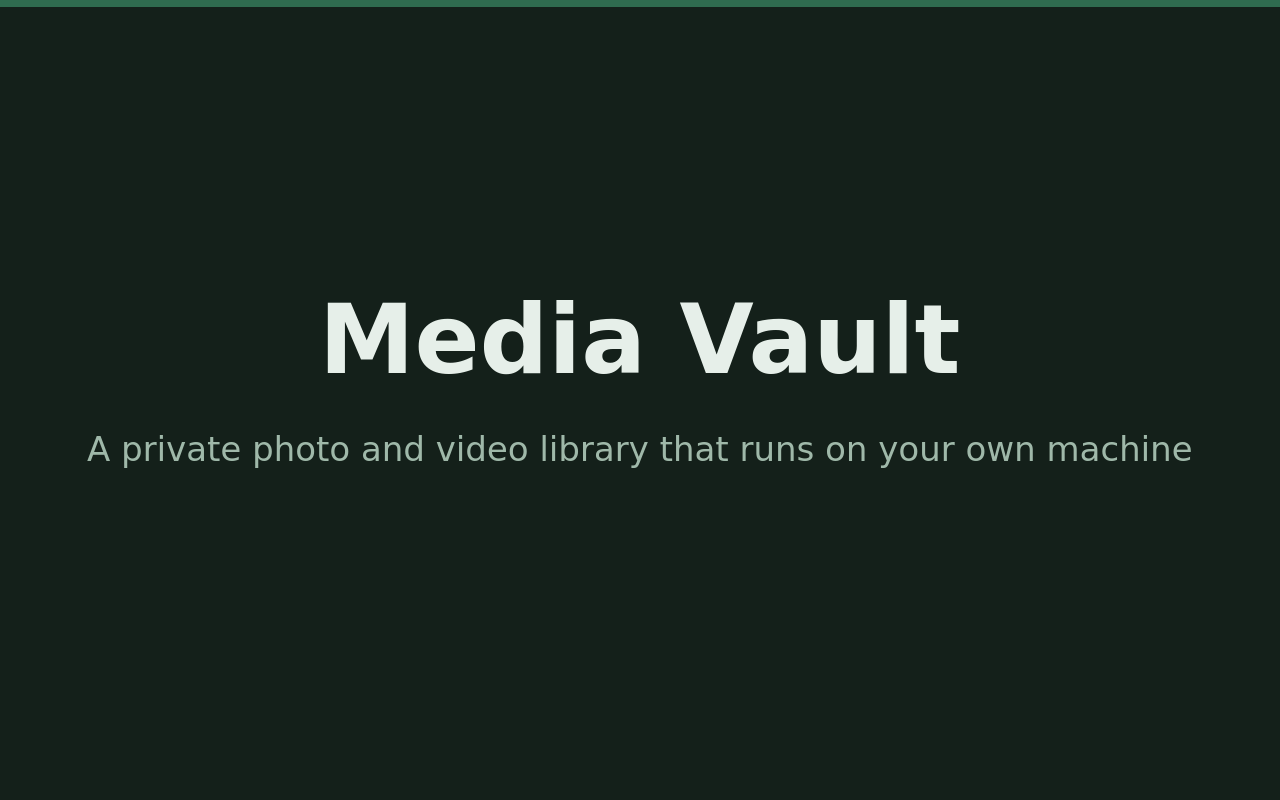
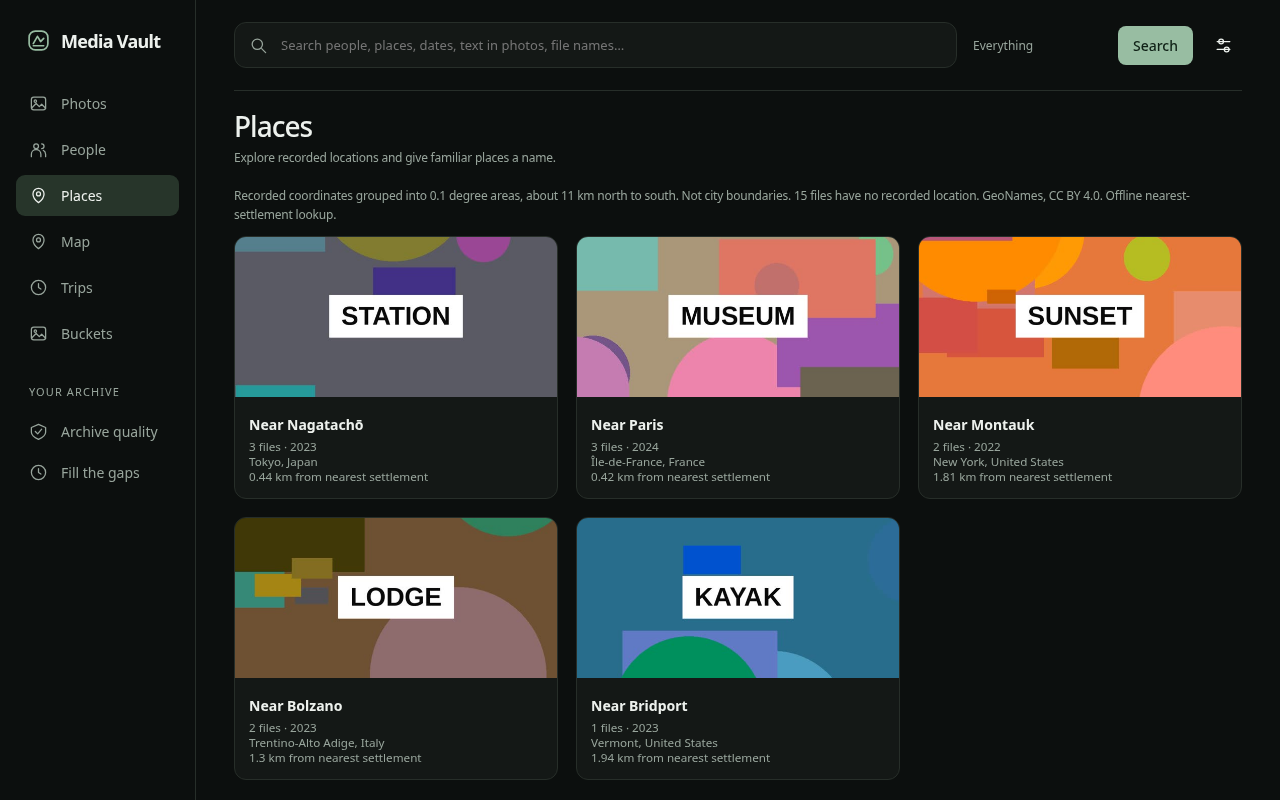
projects: one or two sentence card copy, two columns, seven cards, real Media Vault capture
Card descriptions cut to plain one or two sentence blurbs. Political
Compass 2026 and This Website cards removed with their screenshots.
Grid is two fixed columns above 1500px. Media Vault screenshot is now
the Places view of the synthetic demo library instead of a title card.
Adds .claude/launch.json for the browser-pane preview.

diff --git a/src/components/Projects.js b/src/components/Projects.js
@@ -13,7 +13,7 @@ export default function Projects() {
       <Project
         title="GatesAI Chat"
         image={`${process.env.PUBLIC_URL}/gatesai-chat.png`}
-        description="Local-first AI chat desktop app built with React and Rust (Tauri), with a Go sidecar for sandboxed tool execution. Multi-model routing through OpenRouter or fully-local Ollama, agent tasks, persistent memory, 1,100+ automated tests, CI, and installers for Windows, macOS, and Linux. A browser demo runs at gatesai.web.app."
+        description="A local-first AI chat desktop app I built with React, Rust and Go. It runs on cloud models or fully local Ollama, runs agent tasks, and ships installers for Windows, macOS and Linux."
         link="https://gatesai.web.app/"
         techIcons={[
           icon("TypeScript", "TypeScript.svg"),
@@ -27,7 +27,7 @@ export default function Projects() {
       <Project
         title="Fathom"
         image={`${process.env.PUBLIC_URL}/fathom.png`}
-        description="Market-analysis suite: portfolio backtesting, asset-class allocation over 150+ years of market history, and Monte Carlo retirement simulation validated against the Trinity study. Every analysis is a shareable URL. React and TypeScript with a custom backtest engine, ECharts visualizations, and Web Worker simulation."
+        description="Portfolio backtesting, asset allocation and retirement Monte Carlo over 150+ years of market history. Every analysis is a shareable URL."
         link="https://ethan-488900.web.app"
         techIcons={[
           icon("TypeScript", "TypeScript.svg"),
@@ -41,7 +41,7 @@ export default function Projects() {
       <Project
         title="N2K Almanac"
         image={`${process.env.PUBLIC_URL}/n2k-almanac.png`}
-        description="Equation almanac for the N2K dice-and-target game. A TypeScript solver precomputes the easiest equation for 184K+ solvable dice-and-target combinations, stored in a custom compact binary format and served through a Web Worker for off-main-thread lookups. React + MobX frontend with heatmaps, histograms, competitions, bot matches, and themed editions."
+        description="An equation almanac for the N2K dice game. A solver precomputes the easiest equation for every solvable roll and serves it from a compact binary file in a Web Worker."
         link="https://n2k-almanac-v3.web.app"
         techIcons={[
           icon("TypeScript", "TypeScript.svg"),
@@ -55,21 +55,8 @@ export default function Projects() {
       <Project
         title="Neon Vector Defense"
         image={`${process.env.PUBLIC_URL}/neon-vector-defense.png`}
-        description="Sci-fi tower defense with a deterministic simulation core: a full replay system, headless balance simulations, and bot playtests validate balance changes. Procedural canvas rendering, procedural audio, and Firebase-backed leaderboards. The link opens a recruiter demo mode."
+        description="A sci-fi tower defense game with a deterministic simulation core, so replays and headless balance sims are exact. The link opens a demo mode."
         link="https://neon-vector-defense-7.web.app/?demo=1"
-        techIcons={[
-          icon("TypeScript", "TypeScript.svg"),
-          icon("React", "React.svg"),
-          icon("Firebase", "Firebase.svg"),
-          icon("Vite", "Vite.js.svg"),
-        ]}
-      />
-
-      <Project
-        title="Political Compass 2026"
-        image={`${process.env.PUBLIC_URL}/political-compass.png`}
-        description="A political compass test built for the 2026 US landscape, rendered as an ink-on-paper manuscript. 42 public figures are charted from cited evidence dossiers assembled by parallel AI research agents, with hand-drawn faction territories, an economic-by-social split view, and a Firestore leaderboard."
-        link="https://political-test-2026.web.app"
         techIcons={[
           icon("TypeScript", "TypeScript.svg"),
           icon("React", "React.svg"),
@@ -81,7 +68,7 @@ export default function Projects() {
       <Project
         title="Agent Handles"
         image={`${process.env.PUBLIC_URL}/agent-handles.png`}
-        description="Makes a web app's interface addressable by AI agents. A Vite plugin verifies a stable identity on every interactive element, a generated registry maps each one to its source line, journeys are tests written as data and compiled to Playwright, and a drive API lets an agent operate the running app and get a receipt for every action. The site shows a real app being driven end to end."
+        description="Makes a web app's interface addressable by AI agents. Every element gets a stable id, tests are written as data, and an agent can drive the running app with a receipt for each action."
         link="https://agent-handles.web.app"
         techIcons={[
           icon("TypeScript", "TypeScript.svg"),
@@ -94,7 +81,7 @@ export default function Projects() {
       <Project
         title="Media Vault"
         image={`${process.env.PUBLIC_URL}/media-vault.png`}
-        description="A private photo and video library that runs on your own computer: timeline, people, places, trips and search, with optional local AI for faces, text in photos, image search by description and video transcripts. One command sets it up, originals are never touched, and nothing leaves the machine."
+        description="A private photo and video library that runs on your own computer, with optional local AI for faces, text in photos and search by description. Nothing leaves the machine."
         link="https://github.com/Calculator5329/media-vault-oss"
         techIcons={[
           icon("Python", "Python.svg"),
@@ -107,25 +94,12 @@ export default function Projects() {
       <Project
         title="Milo"
         image={`${process.env.PUBLIC_URL}/milo.png`}
-        description="A local voice companion: whisper.cpp, Ollama and Pocket TTS in one Python process, interruptible mid-sentence, with first audio about 300 ms after you stop talking. An animated SVG robot whose mouth follows real playback amplitude. A coding agent sets it up from the repo's CLAUDE.md."
+        description="A local voice companion built on whisper.cpp, Ollama and Pocket TTS. You can interrupt it mid-sentence, and it starts talking about 300 ms after you stop."
         link="https://github.com/Calculator5329/milo"
         techIcons={[
           icon("Python", "Python.svg"),
           icon("Hugging Face", "hf.svg"),
           icon("JavaScript", "JavaScript.svg"),
-          icon("GitHub", "GitHub.svg"),
-        ]}
-      />
-
-      <Project
-        title="This Website!"
-        image={`${process.env.PUBLIC_URL}/portfolio-site.png`}
-        description="This portfolio site: a React single-page app deployed to GitHub Pages, presenting projects, technical stack, education, and resume."
-        link="https://github.com/Calculator5329/Calculator5329.github.io"
-        techIcons={[
-          icon("JavaScript", "JavaScript.svg"),
-          icon("React", "React.svg"),
-          icon("CSS", "CSS.svg"),
           icon("GitHub", "GitHub.svg"),
         ]}
       />

diff --git a/src/styles/Project.css b/src/styles/Project.css
@@ -6,7 +6,7 @@
   padding: 1rem;
   border-radius: 0.5em;
   display: grid;
-  grid-template-columns: repeat(auto-fit, minmax(500px, 1fr));
+  grid-template-columns: repeat(2, minmax(0, 1fr));
   flex-wrap: wrap;
   justify-items: start;
   align-items: start;

diff --git a/docs/changelog.md b/docs/changelog.md
@@ -1,5 +1,20 @@
 # Changelog
 
+## 2026-09-24 — Shorter card copy, two columns, seven cards
+
+- Every project card description cut to one or two plain sentences (Ethan:
+  the longer blurbs read as AI slop).
+- Removed the Political Compass 2026 and This Website cards and untracked
+  their screenshots; seven cards remain.
+- Projects grid is a fixed two columns above 1500px (index.css already
+  collapses it to one below that), instead of auto-fit on a 500px minimum.
+- Media Vault screenshot replaced: the old file was a title card, the new one
+  is a 1280x800 capture of the Places view on the synthetic demo library.
+- Added `.claude/launch.json` so the browser-pane preview can start the dev
+  server.
+- `npm run build` passed; preview checked at 1920 and 375 wide with a clean
+  console. Deploy remains Ethan's (`npm run deploy`).
+
 ## 2026-09-03 — Skyline Courier out, Political Compass 2026 in, real tab title
 
 - Removed the Skyline Courier card (Ethan: not polished enough to show) and
